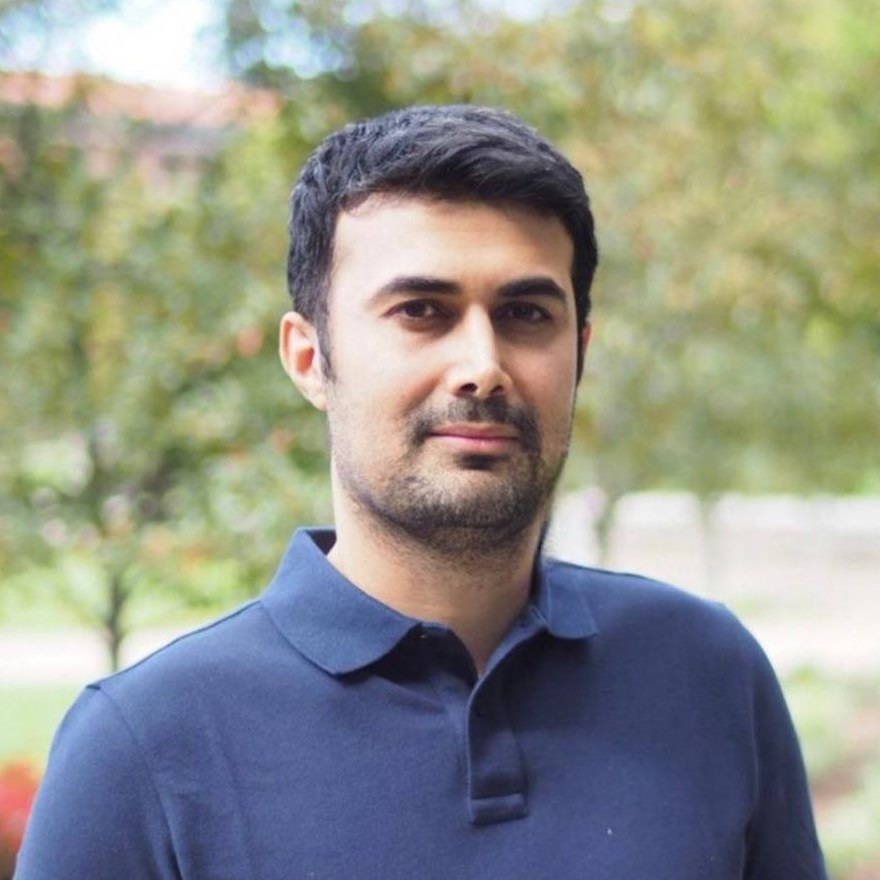
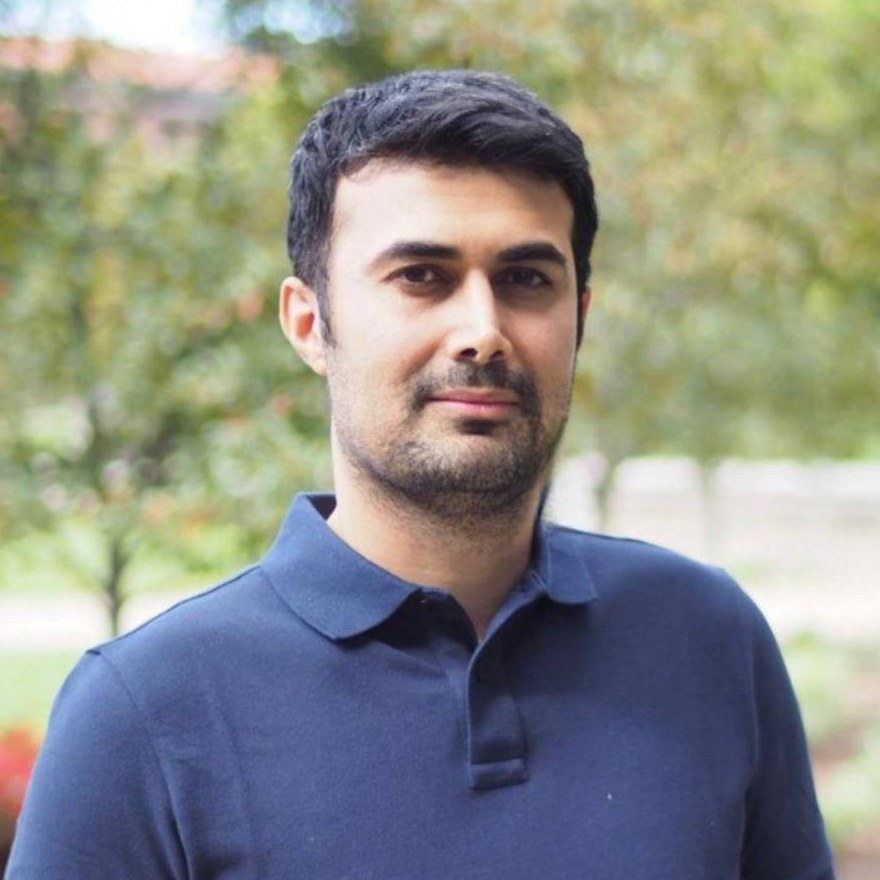
Position portrait slightly higher

diff --git a/index.html b/index.html
@@ -3,7 +3,7 @@
 <head>
 <meta charset="utf-8">
 <meta name="viewport" content="width=device-width, initial-scale=1, viewport-fit=cover">
-<link rel="icon" href="assets/ali-mashhadian-portrait.jpg?v=5">
+<link rel="icon" href="assets/ali-mashhadian-portrait.jpg?v=6">
 <title>Ali Mashhadian</title>
 <meta name="description" content="Ali Mashhadian, mechanical engineer working on numerical simulation of particulate and complex fluid flows in microfluidic devices.">
 <link rel="preconnect" href="https://fonts.googleapis.com">
@@ -267,7 +267,7 @@ figcaption { font-size: 0.95rem; color: var(--muted); line-height: 1.5; }
         </ul>
       </div>
       <figure class="portrait">
-        <img src="assets/ali-mashhadian-portrait.jpg?v=5" alt="Portrait of Ali Mashhadian" width="880" height="880">
+        <img src="assets/ali-mashhadian-portrait.jpg?v=6" alt="Portrait of Ali Mashhadian" width="880" height="880">
       </figure>
     </div>
   </section>
